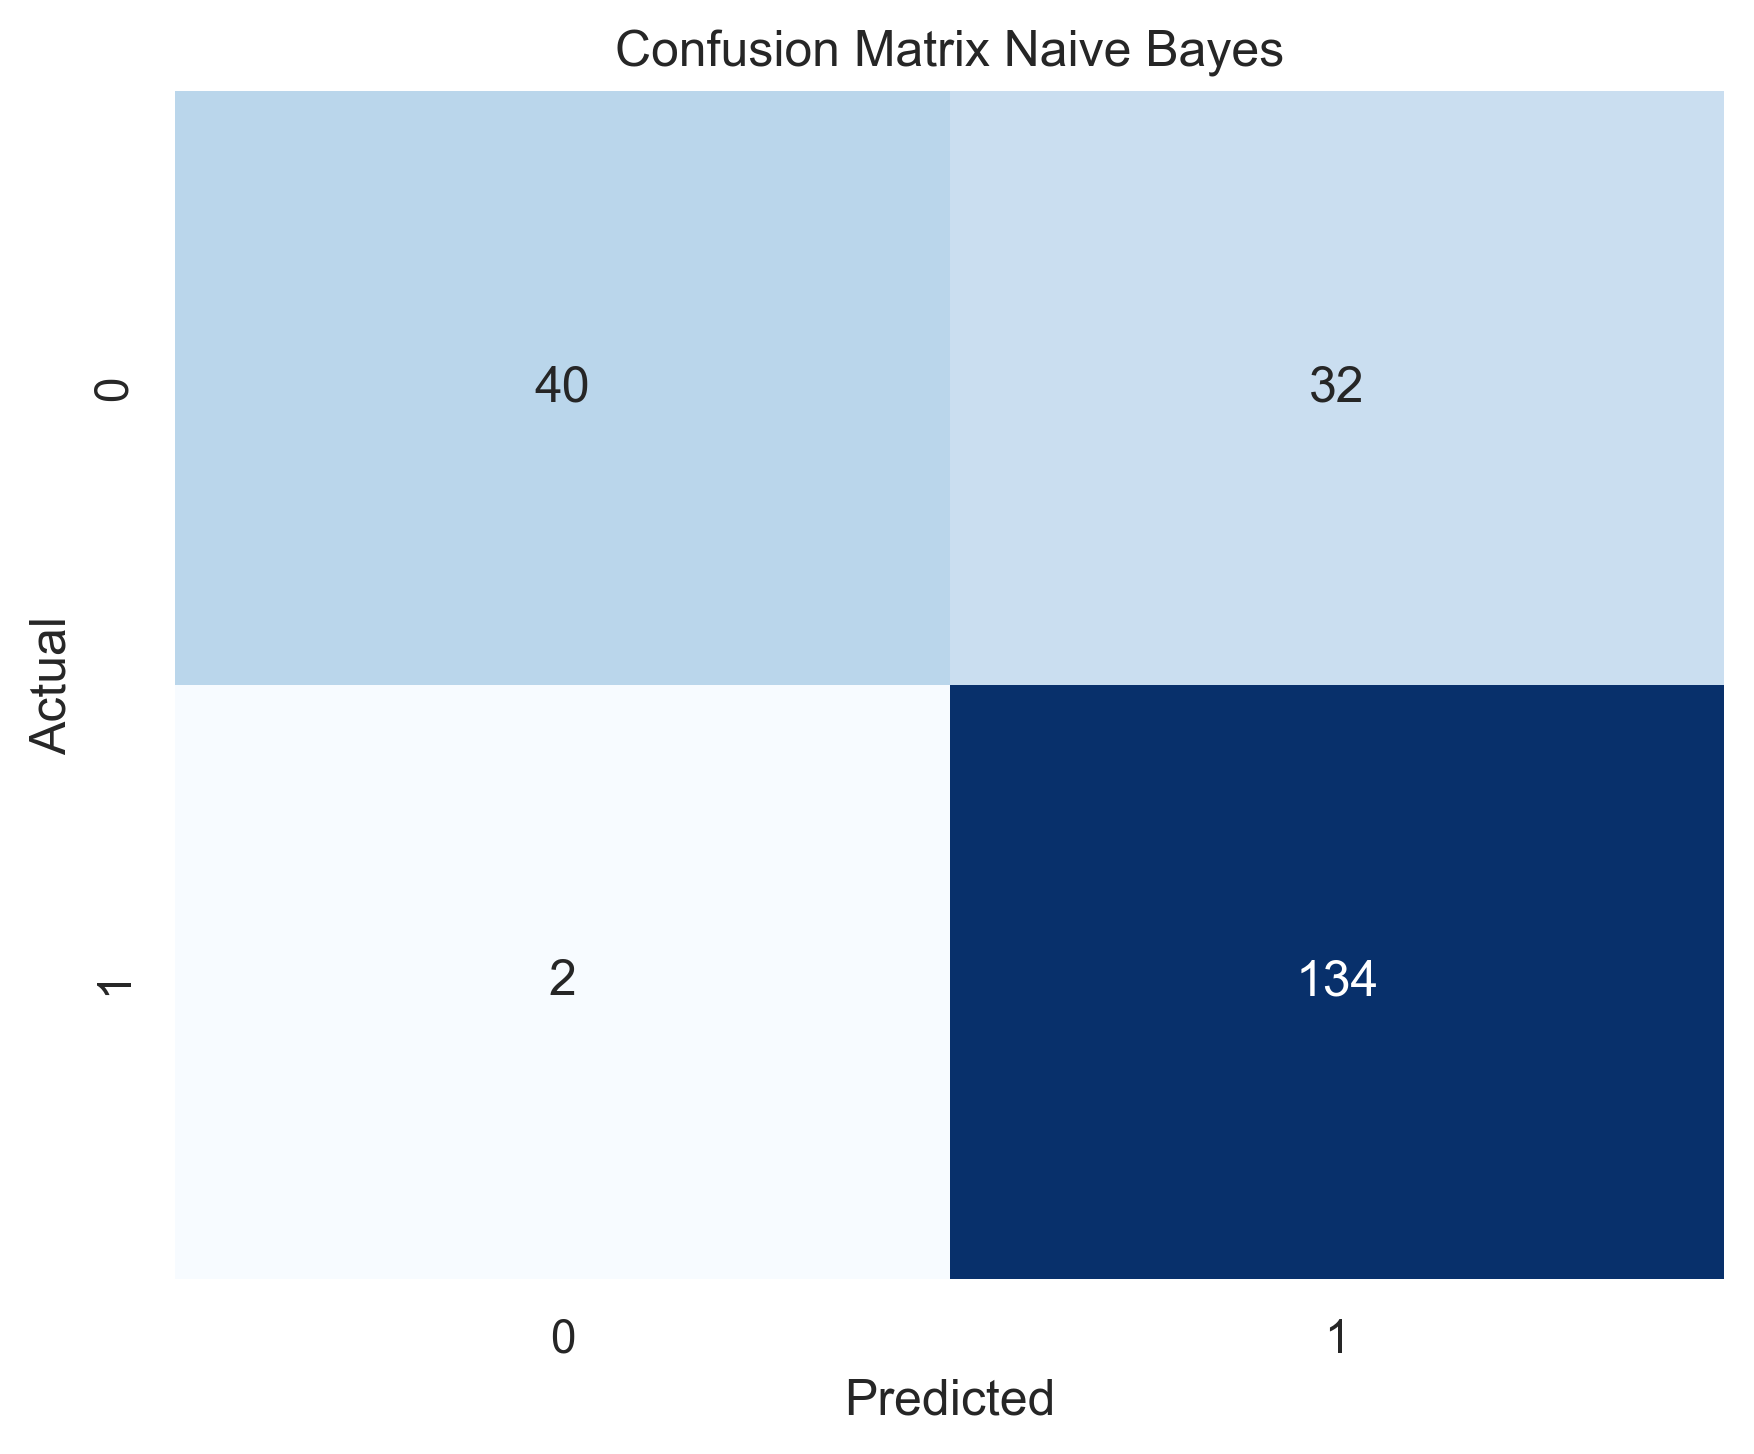
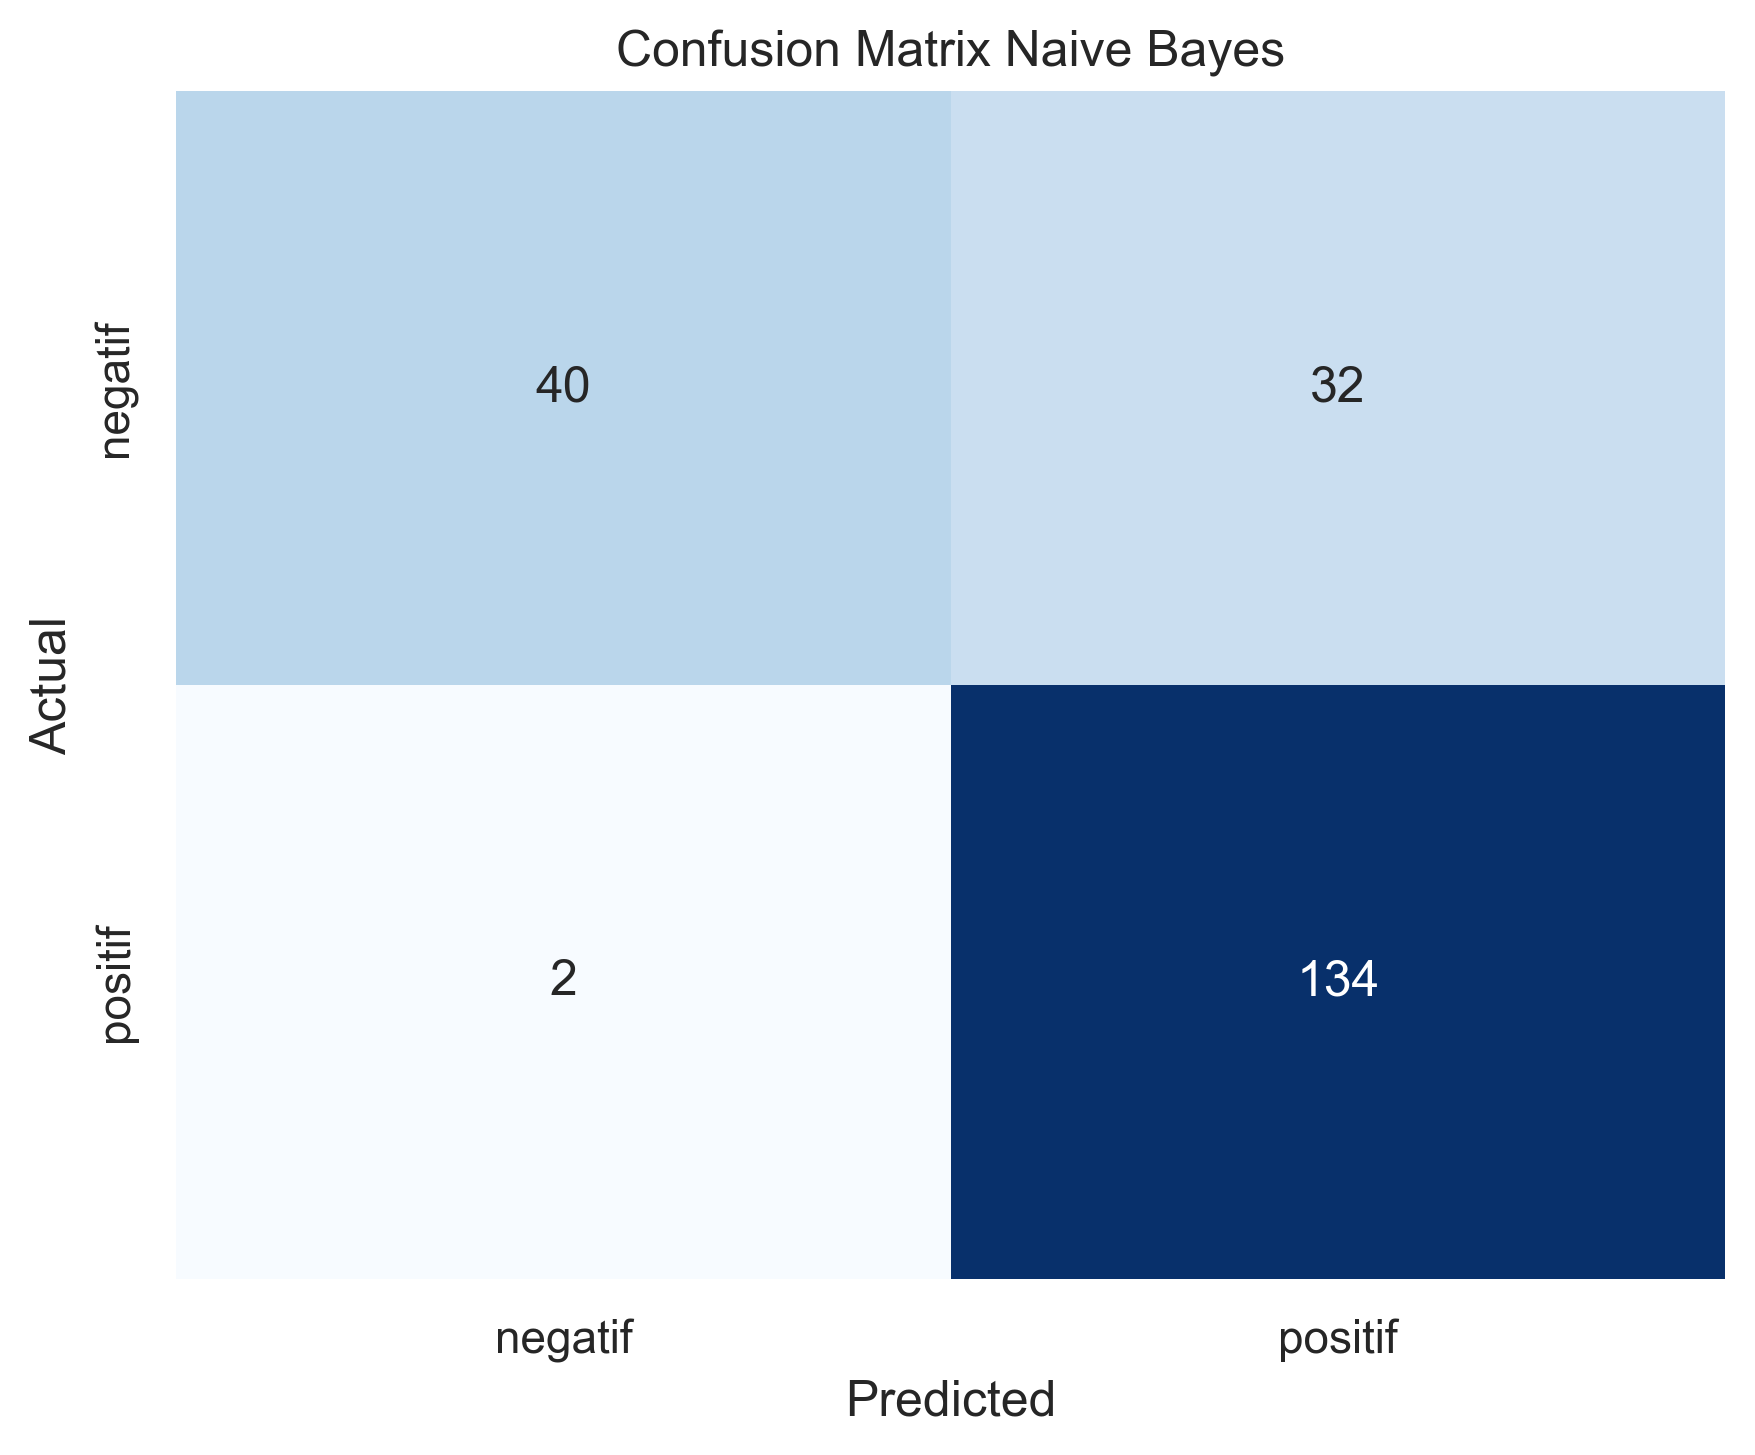
fix: sinkronisasi visualisasi dashboard dan reports
- dashboard.py: ubah grouping bar chart metrik menjadi per-metrik (Accuracy, Precision, Recall, F1-score) agar sesuai dengan gambar di folder reports
- train_model.py: tambahkan xticklabels & yticklabels pada confusion matrix (negatif/positif), pindahkan countplot ke setelah preprocessing
- reports: perbarui gambar confusion matrix, countplot, dan wordcloud dengan data terbaru

diff --git a/train_model.py b/train_model.py
@@ -447,12 +447,7 @@ def main() -> None:
     print("\nStatistik Panjang Teks:")
     print(df["text_length"].describe())
 
-    plt.figure(figsize=(8, 5))
-    sns.countplot(data=df, x="label", palette="viridis")
-    plt.title("Distribusi Label Sentimen")
-    plt.xlabel("Label")
-    plt.ylabel("Jumlah")
-    save_plot("countplot_label.png")
+    # Plot Distribusi Label akan dilakukan di bagian Evaluasi / setelah preprocessing
 
     plt.figure(figsize=(10, 5))
     sns.histplot(df["text_length"], bins=30, kde=True, color="steelblue")
@@ -477,6 +472,13 @@ def main() -> None:
     comparison_df = df[["content", "cleaned_text"]].head()
     print("\nPerbandingan Sebelum vs Sesudah:")
     print(comparison_df)
+
+    plt.figure(figsize=(8, 5))
+    sns.countplot(data=df, x="label", palette="viridis")
+    plt.title("Distribusi Label Sentimen")
+    plt.xlabel("Label")
+    plt.ylabel("Jumlah")
+    save_plot("countplot_label.png")
 
     # =====================================================
     # 4. WORDCLOUD
@@ -598,14 +600,16 @@ def main() -> None:
     # =====================================================
     print("\n=== 10. VISUALISASI EVALUASI ===")
     plt.figure(figsize=(6, 5))
-    sns.heatmap(cm_nb, annot=True, fmt="d", cmap="Blues", cbar=False)
+    sns.heatmap(cm_nb, annot=True, fmt="d", cmap="Blues", cbar=False, 
+                xticklabels=le.classes_, yticklabels=le.classes_)
     plt.title("Confusion Matrix Naive Bayes")
     plt.xlabel("Predicted")
     plt.ylabel("Actual")
     save_plot("confusion_matrix_nb.png")
 
     plt.figure(figsize=(6, 5))
-    sns.heatmap(cm_svm, annot=True, fmt="d", cmap="Greens", cbar=False)
+    sns.heatmap(cm_svm, annot=True, fmt="d", cmap="Greens", cbar=False,
+                xticklabels=le.classes_, yticklabels=le.classes_)
     plt.title("Confusion Matrix SVM (LinearSVC)")
     plt.xlabel("Predicted")
     plt.ylabel("Actual")

diff --git a/dashboard.py b/dashboard.py
@@ -898,8 +898,8 @@ def plot_confusion_matrix(cm, class_names: List[str], title: str) -> go.Figure:
 def plot_metrics_comparison(metrics_df: pd.DataFrame) -> go.Figure:
     melted = metrics_df.melt(id_vars="Model", var_name="Metric", value_name="Score")
     fig = px.bar(
-        melted, x="Model", y="Score", color="Metric", barmode="group",
-        color_discrete_sequence=[C_ACCENT, C_METAL, "#9E9E9E", C_LIGHT],
+        melted, x="Metric", y="Score", color="Model", barmode="group",
+        color_discrete_sequence=[C_METAL, C_ACCENT],
     )
     fig.update_layout(yaxis=dict(range=[0, 1.05], tickformat=".0%"))
     fig.update_traces(marker_line_color=C_DARK, marker_line_width=0.5)
